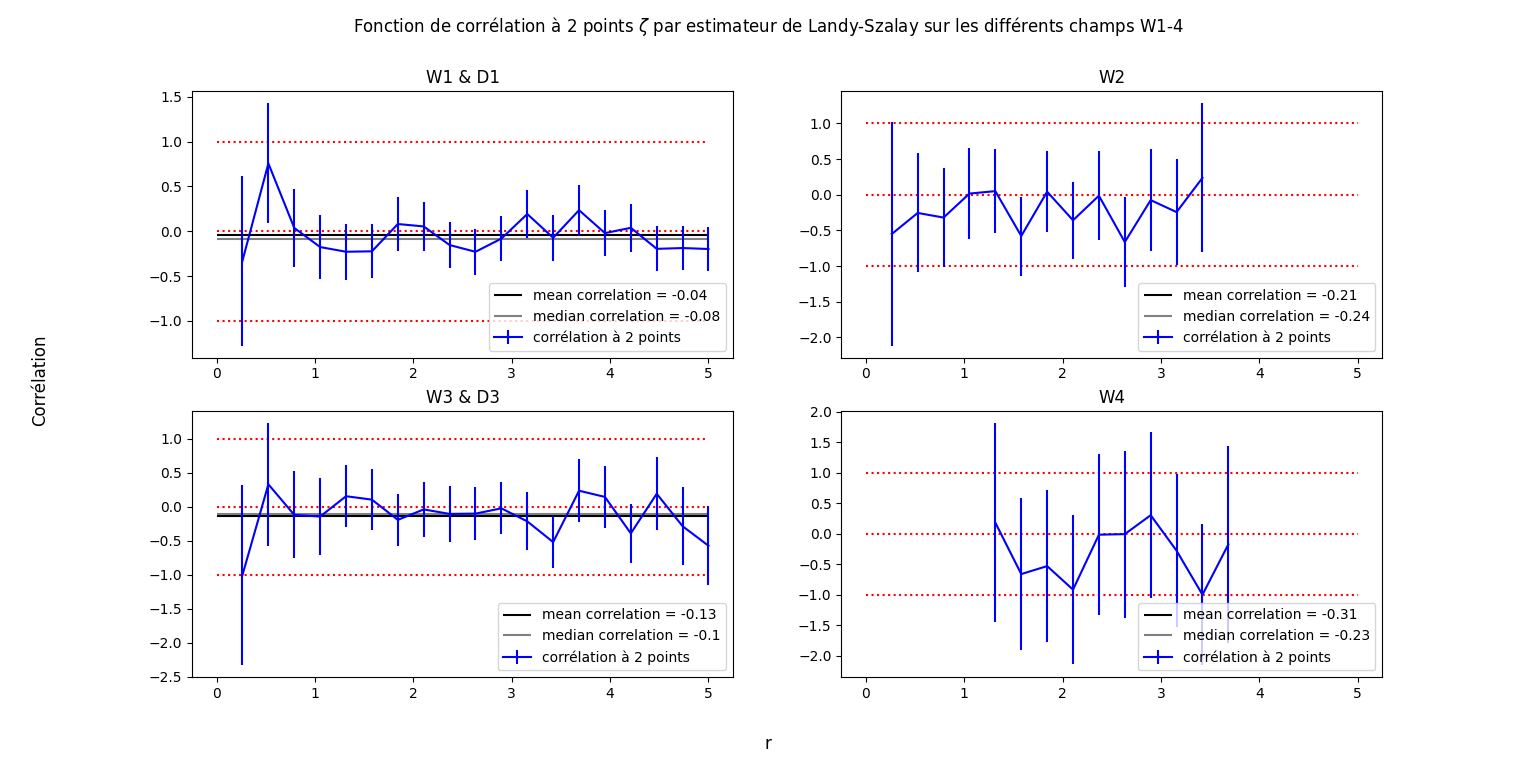
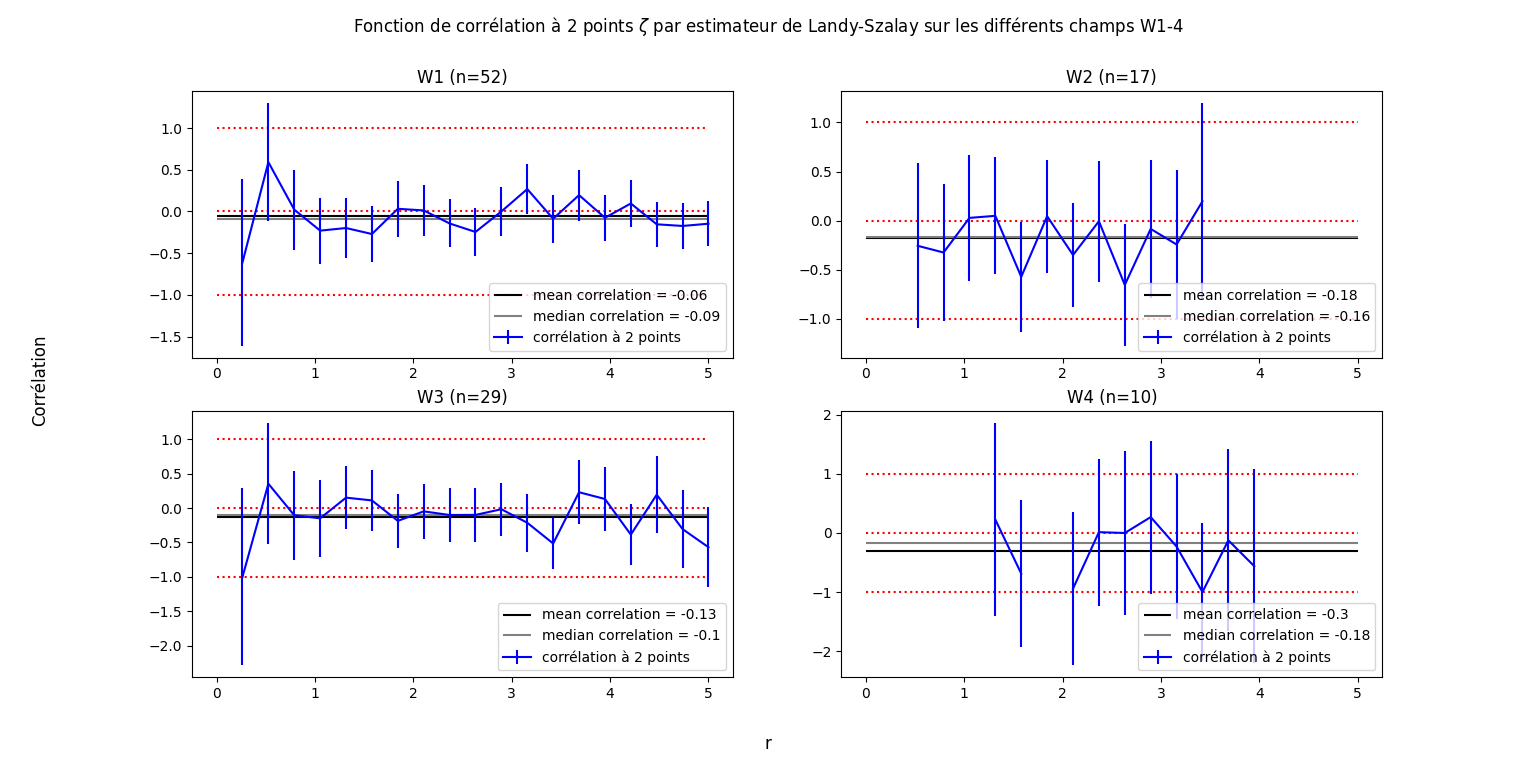
maj

diff --git a/python/travail/ppv.py b/python/travail/ppv.py
@@ -251,38 +251,69 @@ allW_results_df = pd.concat(
 
 allW_results_df.to_csv('./source/ppv_results.csv')
 
-
+allW_results_df = pd.read_csv('./source/ppv_results.csv', header = 0, index_col=0)
+W1_results_df = allW_results_df[allW_results_df["Field"]=="W1"]
+W2_results_df = allW_results_df[allW_results_df["Field"]=="W2"]
+W3_results_df = allW_results_df[allW_results_df["Field"]=="W3"]
+W4_results_df = allW_results_df[allW_results_df["Field"] == "W4"]
 
 
 
 
 # -- global
+from scipy import stats
+from sklearn import *
 
-_bins = np.linspace(0, max(allW_results_df['3R']), 50)
+_bins = np.linspace(0, max(allW_results_df['4R']), 50)
+__bins = np.linspace(-10, max(allW_results_df['4R']), 50000)
+
 plt.hist([allW_results_df['4R'], allW_results_df['3R']],
-         bins=_bins, label=['4r', '3r'])
+         bins=_bins, label=['4r', '3r'], density=True)
+kde4 = stats.gaussian_kde(allW_results_df['4R'], bw_method=0.03)
+#plt.plot(__bins, kde4(__bins), color='blue', label='kde density 4R')
+kde3 = stats.gaussian_kde(allW_results_df['3R'], bw_method=0.03)
+#plt.plot(__bins, kde3(__bins), color='orange', label='kde density 3R')
 plt.legend()
 plt.title("Nombre de galaxies voisines pour chaque lentille dans un rayon de 3 et 4 $R_E$ pour les champs W1-4")
 plt.xlabel("Nombre de galaxies voisines / densité de galaxies par $deg^2$ dans le champ")
 plt.show()
 
 
+__bins = np.linspace(0, max(allW_results_df['4R']), 50000)
+plt.plot(__bins, kde4(__bins), color='green', label='kde density 4R')
+plt.plot(__bins, kde3(__bins), color='red', label='kde density 3R')
+plt.title("Nombre de galaxies voisines pour chaque lentille dans un rayon de 3 et 4 $R_E$ pour les champs W1-4")
+plt.xlabel("Nombre de galaxies voisines / densité de galaxies par $deg^2$ dans le champ")
 
-from scipy import stats
+k_gamma, theta_gamma = 3, 2
+# plt.plot(__bins, stats.gamma.pdf(__bins, a=k_gamma, scale=theta_gamma), label='gamma')
+
+# mu_lognorm, sigma_lognorm = 5, 2
+# plt.plot(__bins, stats.lognorm.pdf(__bins, s=sigma_lognorm, loc=mu_lognorm), label='lognormale')
+
+df_chi2 = 4
+plt.plot(__bins, stats.chi2.pdf(__bins, df=df_chi2), label='chi2')
+
+plt.plot(__bins, stats.norm.pdf(__bins, loc=df_chi2, scale = (2*df_chi2)**1/2), label='gauss')
+
+plt.legend()
+plt.show()
+
+
 fig, (ax1, ax2) = plt.subplots(2, 1)
 _bins = np.linspace(0, max(allW_results_df['3R']), 50)
-
 __bins = np.linspace(0, max(allW_results_df['3R']), 50000)
-ax1.hist([W1_results_df['3R'], W2_results_df['3R'], W2_results_df['3R'], W4_results_df['3R']],
+
+ax1.hist([W1_results_df['3R'], W2_results_df['3R'], W3_results_df['3R'], W4_results_df['3R']],
          bins=_bins, label=['W1', 'W2', 'W3', 'W4'], density=True,alpha=.5)
 
-kde1 = stats.gaussian_kde(W1_results_df['3R'])
+kde1 = stats.gaussian_kde(W1_results_df['3R'], bw_method=1)
 ax1.plot(__bins, kde1(__bins), color='blue')
-kde2 = stats.gaussian_kde(W2_results_df['3R'])
+kde2 = stats.gaussian_kde(W2_results_df['3R'], bw_method=1)
 ax1.plot(__bins, kde2(__bins), color='orange')
-kde3 = stats.gaussian_kde(W3_results_df['3R'])
+kde3 = stats.gaussian_kde(W3_results_df['3R'], bw_method=1)
 ax1.plot(__bins, kde3(__bins), color='green')
-kde4 = stats.gaussian_kde(W4_results_df['3R'])
+kde4 = stats.gaussian_kde(W4_results_df['3R'], bw_method=1)
 ax1.plot(__bins, kde4(__bins), color='red')
 
 
@@ -291,7 +322,7 @@ ax1.set_title("Nombre de galaxies voisines pour chaque lentille dans un rayon de
 
 
 __bins = np.linspace(0, max(allW_results_df['4R']), 50000)
-ax2.hist([W1_results_df['4R'], W2_results_df['4R'], W2_results_df['4R'], W4_results_df['4R']],
+ax2.hist([W1_results_df['4R'], W2_results_df['4R'], W3_results_df['4R'], W4_results_df['4R']],
          bins=_bins, label=['W1', 'W2', 'W3', 'W4'], density=True, alpha=.5)
 
 kde1 = stats.gaussian_kde(W1_results_df['4R'])
@@ -315,8 +346,8 @@ plt.show()
 
 fig, (ax1, ax2) = plt.subplots(2, 1)
 _bins = np.linspace(0, max(allW_results_df['3Rd']), 50)
-__bins = np.linspace(0, max(allW_results_df['3Rd']), 50000)
-ax1.hist([W1_results_df['3Rd'], W2_results_df['3Rd'], W2_results_df['3Rd'], W4_results_df['3Rd']],
+__bins = np.linspace(-0.001, max(allW_results_df['3Rd']), 50000)
+ax1.hist([W1_results_df['3Rd'], W2_results_df['3Rd'], W3_results_df['3Rd'], W4_results_df['3Rd']],
          bins=_bins, label=['W1', 'W2', 'W3', 'W4'], density=True, alpha=.5,)
 
 kde1 = stats.gaussian_kde(W1_results_df['3Rd'])
@@ -334,8 +365,8 @@ ax1.set_title(
     "Nombre de galaxies voisines pour chaque lentille dans un rayon de 3 $R_E$ pour les champs W1-4")
 
 
-__bins = np.linspace(0, max(allW_results_df['4Rd']), 50000)
-ax2.hist([W1_results_df['4Rd'], W2_results_df['4Rd'], W2_results_df['4Rd'], W4_results_df['4Rd']],
+__bins = np.linspace(-0.001, max(allW_results_df['4Rd']), 50000)
+ax2.hist([W1_results_df['4Rd'], W2_results_df['4Rd'], W3_results_df['4Rd'], W4_results_df['4Rd']],
          bins=_bins, label=['W1', 'W2', 'W3', 'W4'], density=True, alpha=.5)
 
 kde1 = stats.gaussian_kde(W1_results_df['4Rd'])
@@ -356,7 +387,16 @@ ax2.set_xlabel(
 plt.show()
 
 
-import seaborn as sns
-sns.histplot(data=allW_results_df, x='3R', hue='Field', stat="probability", kde=True, multiple="dodge")
-sns.histplot(data=W1_results_df, x='3R', hue='Field', stat="probability", kde=True, multiple="dodge")
-sns.histplot(data=W2_results_df, x='3R', hue='Field', stat="probability", kde=True, multiple="dodge")
+from scipy import stats
+
+res = stats.probplot(x=allW_results_df["3Rd"], dist=stats.chi2, sparams=(5,), plot=plt)
+plt.show()
+
+res = stats.probplot(x=allW_results_df["3Rd"], dist=stats.lognorm, sparams=(
+    np.mean(allW_results_df["3Rd"]), np.std(allW_results_df["3Rd"])**2), plot=plt)
+plt.show()
+
+
+res = stats.probplot(x=allW_results_df["3Rd"], dist=stats.gamma, sparams=(1.5,50), plot=plt)
+plt.show()
+

diff --git a/python/travail/tentative_reg.py b/python/travail/tentative_reg.py
@@ -185,8 +185,8 @@ def plot_2pts_corr(N_bootstrap=5000, rd_seed=90):
 
     # W1
     dfw1 = df[df["Field"] == "W1"]
-    dfd1 = df[(df["Field"] == "D1") & (df["Arc Radius $R_A$ (arcsec)"] >= 2.8)]
-    dfw1 = pd.concat([dfw1, dfd1], axis=0)
+    #dfd1 = df[(df["Field"] == "D1") & (df["Arc Radius $R_A$ (arcsec)"] >= 2.8)]
+    # dfw1 = pd.concat([dfw1, dfd1], axis=0)
 
     corr, dcorr, bootstraps = amlc.bootstrap_two_point_angular(
         ra=dfw1["Right ascension"], dec=dfw1["Declination"], bins=_bins, method="landy-szalay", Nbootstraps=N_bootstrap,  random_state=rd_seed)
@@ -197,8 +197,8 @@ def plot_2pts_corr(N_bootstrap=5000, rd_seed=90):
     axes[0, 0].hlines(y=1, xmin=min(_bins), xmax=max(_bins), colors='red', linestyles='dotted')
     axes[0, 0].hlines(y=-1, xmin=min(_bins), xmax=max(_bins), colors='red', linestyles='dotted')
 
-    axes[0, 0].hlines(y=np.mean(corr), xmin=min(_bins), xmax=max(_bins), colors='black', linestyles='solid', label=f'mean correlation = {round(np.nanmean(corr), 2)}')
-    axes[0, 0].hlines(y=np.median(corr), xmin=min(_bins), xmax=max(_bins), colors='grey', linestyles='solid', label=f'median correlation = {round(np.nanmedian(corr), 2)}')
+    axes[0, 0].hlines(y=np.nanmean(corr), xmin=min(_bins), xmax=max(_bins), colors='black', linestyles='solid', label=f'mean correlation = {round(np.nanmean(corr), 2)}')
+    axes[0, 0].hlines(y=np.nanmedian(corr), xmin=min(_bins), xmax=max(_bins), colors='grey', linestyles='solid', label=f'median correlation = {round(np.nanmedian(corr), 2)}')
 
 
     axes[0, 0].errorbar(_bins[1: len(_bins)], corr, yerr=dcorr, label='corrélation à 2 points', color='blue')
@@ -206,7 +206,7 @@ def plot_2pts_corr(N_bootstrap=5000, rd_seed=90):
     #errorfill(_bins[1: len(_bins)], corr, yerr=dcorr)
 
     axes[0, 0].legend(loc='lower right')
-    axes[0, 0].set_title("W1 & D1")
+    axes[0, 0].set_title(f"W1 (n={len(dfw1)})")
     # W2
     dfw2 = df[df["Field"] == "W2"]
 
@@ -220,9 +220,9 @@ def plot_2pts_corr(N_bootstrap=5000, rd_seed=90):
     axes[0, 1].hlines(y=-1, xmin=min(_bins), xmax=max(_bins),
             colors='red', linestyles='dotted')
 
-    axes[0, 1].hlines(y=np.mean(corr), xmin=min(_bins), xmax=max(_bins), colors='black',
+    axes[0, 1].hlines(y=np.nanmean(corr), xmin=min(_bins), xmax=max(_bins), colors='black',
             linestyles='solid', label=f'mean correlation = {round(np.nanmean(corr), 2)}')
-    axes[0, 1].hlines(y=np.median(corr), xmin=min(_bins), xmax=max(_bins), colors='grey',
+    axes[0, 1].hlines(y=np.nanmedian(corr), xmin=min(_bins), xmax=max(_bins), colors='grey',
             linestyles='solid', label=f'median correlation = {round(np.nanmedian(corr), 2)}')
 
 
@@ -232,11 +232,11 @@ def plot_2pts_corr(N_bootstrap=5000, rd_seed=90):
     #errorfill(_bins[1: len(_bins)], corr, yerr=dcorr)
 
     axes[0, 1].legend(loc='lower right')
-    axes[0, 1].set_title("W2")
+    axes[0, 1].set_title(f"W2 (n={len(dfw2)})")
     # W3 
     dfw3 = df[df["Field"] == "W3"]
-    dfd3 = df[df["Field"] == "D3"]
-    dfw1 = pd.concat([dfw3, dfd3], axis=0)
+    #dfd3 = df[df["Field"] == "D3"]
+    #dfw1 = pd.concat([dfw3, dfd3], axis=0)
 
     corr, dcorr, bootstraps = amlc.bootstrap_two_point_angular(
         ra=dfw3["Right ascension"], dec=dfw3["Declination"], bins=_bins, method="landy-szalay", Nbootstraps=N_bootstrap, random_state=rd_seed)
@@ -249,9 +249,9 @@ def plot_2pts_corr(N_bootstrap=5000, rd_seed=90):
     axes[1, 0].hlines(y=-1, xmin=min(_bins), xmax=max(_bins),
             colors='red', linestyles='dotted')
 
-    axes[1, 0].hlines(y=np.mean(corr), xmin=min(_bins), xmax=max(_bins), colors='black',
+    axes[1, 0].hlines(y=np.nanmean(corr), xmin=min(_bins), xmax=max(_bins), colors='black',
             linestyles='solid', label=f'mean correlation = {round(np.nanmean(corr), 2)}')
-    axes[1, 0].hlines(y=np.median(corr), xmin=min(_bins), xmax=max(_bins), colors='grey',
+    axes[1, 0].hlines(y=np.nanmedian(corr), xmin=min(_bins), xmax=max(_bins), colors='grey',
             linestyles='solid', label=f'median correlation = {round(np.nanmedian(corr), 2)}')
 
 
@@ -261,7 +261,7 @@ def plot_2pts_corr(N_bootstrap=5000, rd_seed=90):
     # errorfill(_bins[1: len(_bins)], corr, yerr=dcorr)
 
     axes[1, 0].legend(loc='lower right')
-    axes[1, 0].set_title("W3 & D3")
+    axes[1, 0].set_title(f"W3 (n={len(dfw3)})")
 
     #W4
     dfw4 = df[df["Field"] == "W4"]
@@ -277,9 +277,9 @@ def plot_2pts_corr(N_bootstrap=5000, rd_seed=90):
     axes[1, 1].hlines(y=-1, xmin=min(_bins), xmax=max(_bins),
             colors='red', linestyles='dotted')
 
-    axes[1, 1].hlines(y=np.mean(corr), xmin=min(_bins), xmax=max(_bins), colors='black',
+    axes[1, 1].hlines(y=np.nanmean(corr), xmin=min(_bins), xmax=max(_bins), colors='black',
             linestyles='solid', label=f'mean correlation = {round(np.nanmean(corr), 2)}')
-    axes[1, 1].hlines(y=np.median(corr), xmin=min(_bins), xmax=max(_bins), colors='grey',
+    axes[1, 1].hlines(y=np.nanmedian(corr), xmin=min(_bins), xmax=max(_bins), colors='grey',
             linestyles='solid', label=f'median correlation = {round(np.nanmedian(corr), 2)}')
 
 
@@ -289,13 +289,13 @@ def plot_2pts_corr(N_bootstrap=5000, rd_seed=90):
     # errorfill(_bins[1: len(_bins)], corr, yerr=dcorr)
 
     axes[1, 1].legend(loc='lower right')
-    axes[1, 1].set_title("W4")
+    axes[1, 1].set_title(f"W4 (n={len(dfw4)})")
     
     fig.suptitle("Fonction de corrélation à 2 points $\zeta$ par estimateur de Landy-Szalay sur les différents champs W1-4")
     fig.supxlabel("r")
     fig.supylabel("Corrélation")
     
-    plt.draw()
+    plt.show()
 plot_2pts_corr(rd_seed=15)
 
 """
